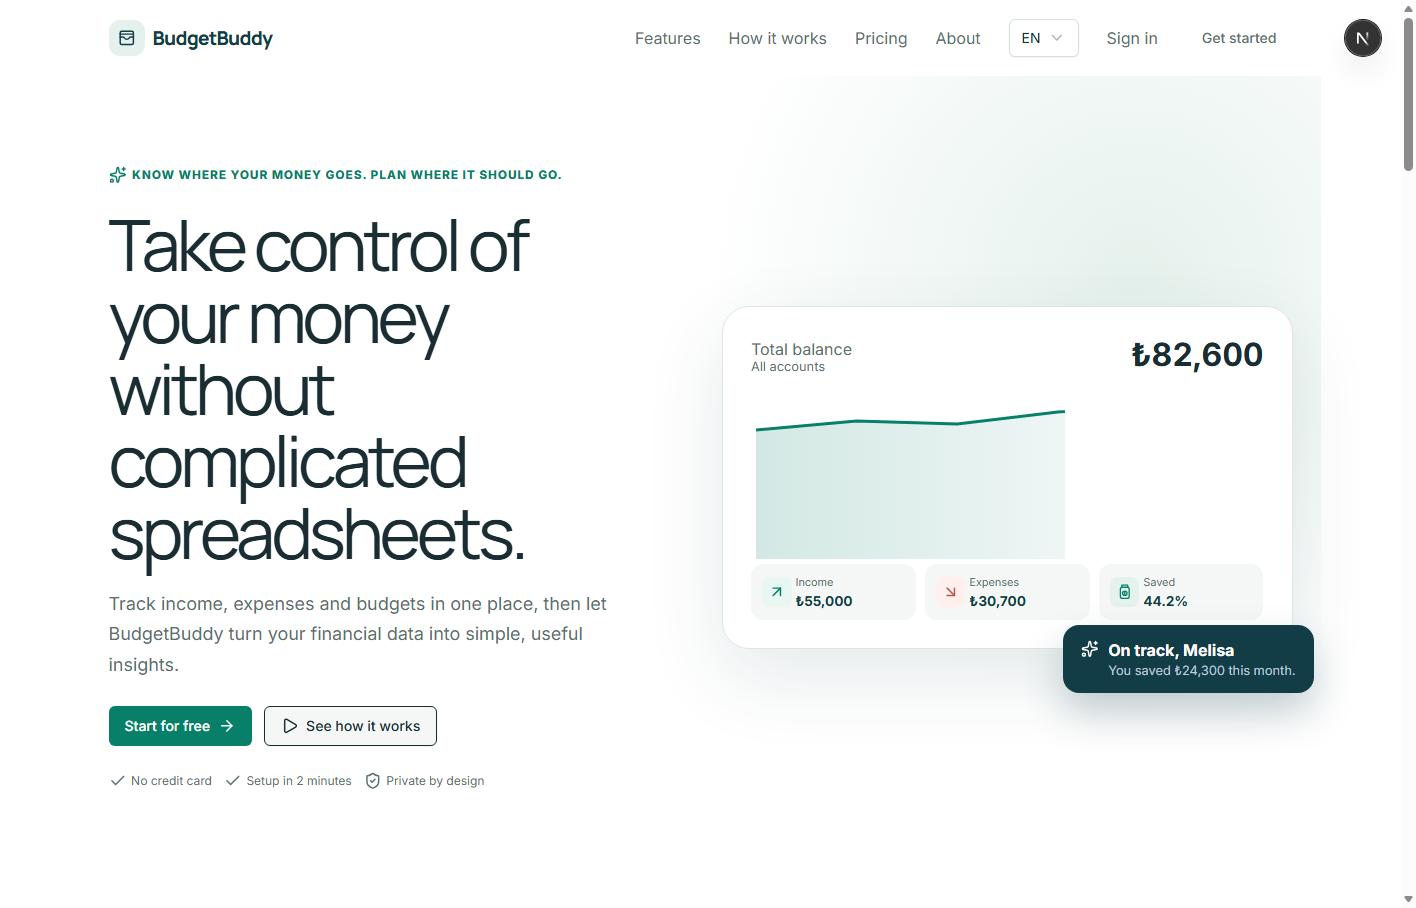
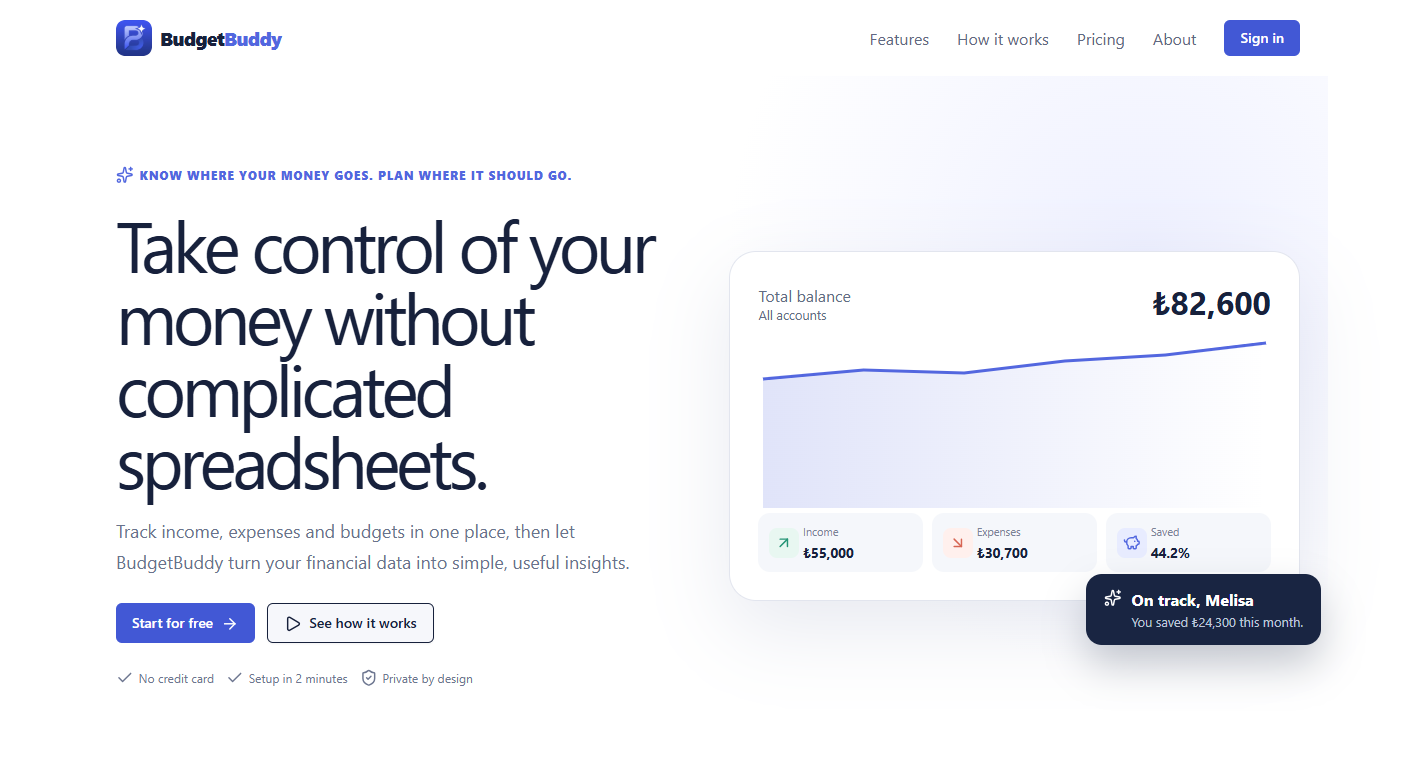
Tighten project copy, drop Junior from the hero and refresh Budget Buddy image
Remove process details and defensive disclaimers from the project
pages in Turkish, English and German (branch protection and CI notes,
"not claimed" caveats, internal source notes), drop "Junior" from the
rotating hero title, and replace the Budget Buddy screenshot with the
current landing page design.

diff --git a/src/app/data/i18n.ts b/src/app/data/i18n.ts
@@ -14,7 +14,7 @@ export const translations = {
     nav: ["Hakkımda", "Uzmanlık", "Projeler", "Deneyim", "İletişim"],
     workTogether: "Birlikte çalışalım", themeLight: "Açık", themeDark: "Koyu", menu: "Menüyü aç veya kapat",
     eyebrow: "Merhaba, ben Melisa", headline: "Web uygulamaları ve Shopify deneyimleri geliştiriyorum.",
-    heroEyebrows: ["JUNIOR FULL-STACK DEVELOPER", "BACKEND ÇÖZÜMLERİ GELİŞTİRİYORUM", "SHOPIFY & MODERN WEB"],
+    heroEyebrows: ["FULL-STACK DEVELOPER", "BACKEND ÇÖZÜMLERİ GELİŞTİRİYORUM", "SHOPIFY & MODERN WEB"],
     summary: "React, FastAPI ve PostgreSQL ile arayüzden veritabanına uzanan projeler üzerinde çalışıyorum.",
     projectsCta: "Projelerimi incele", resume: "CV'yi indir", location: "Muğla, Türkiye",
     section: {
@@ -42,7 +42,7 @@ export const translations = {
     nav: ["About", "Expertise", "Projects", "Experience", "Contact"],
     workTogether: "Let's work together", themeLight: "Light", themeDark: "Dark", menu: "Open or close menu",
     eyebrow: "Hi, I'm Melisa", headline: "I build web applications and Shopify experiences.",
-    heroEyebrows: ["JUNIOR FULL-STACK DEVELOPER", "BUILDING BACKEND SOLUTIONS", "SHOPIFY & MODERN WEB"],
+    heroEyebrows: ["FULL-STACK DEVELOPER", "BUILDING BACKEND SOLUTIONS", "SHOPIFY & MODERN WEB"],
     summary: "I work across interfaces, APIs, and databases with React, FastAPI, and PostgreSQL.",
     projectsCta: "Explore my projects", resume: "Download résumé", location: "Muğla, Turkey",
     section: { about: ["About", "A software developer who stays curious, keeps learning, and builds."], skills: ["Expertise", "A strong technical foundation for full-stack development."], projects: ["Projects", "My latest work"], experience: ["Experience & Education", "My production-focused development journey"], contact: ["Contact", "Let's bring new ideas to life together."] },
@@ -66,7 +66,7 @@ export const translations = {
     nav: ["Über mich", "Expertise", "Projekte", "Erfahrung", "Kontakt"],
     workTogether: "Zusammenarbeiten", themeLight: "Hell", themeDark: "Dunkel", menu: "Menü öffnen oder schließen",
     eyebrow: "Hallo, ich bin Melisa", headline: "Ich entwickle Webanwendungen und Shopify-Erlebnisse.",
-    heroEyebrows: ["JUNIOR FULL-STACK DEVELOPER", "BACKEND-LÖSUNGEN ENTWICKELN", "SHOPIFY & MODERNES WEB"],
+    heroEyebrows: ["FULL-STACK DEVELOPER", "BACKEND-LÖSUNGEN ENTWICKELN", "SHOPIFY & MODERNES WEB"],
     summary: "Mit React, FastAPI und PostgreSQL arbeite ich an Oberflächen, APIs und Datenbanken.",
     projectsCta: "Projekte ansehen", resume: "Lebenslauf herunterladen", location: "Muğla, Türkei",
     section: { about: ["Über mich", "Eine Softwareentwicklerin, die neugierig bleibt, lernt und gestaltet."], skills: ["Expertise", "Eine starke technische Basis für die Full-Stack-Entwicklung."], projects: ["Projekte", "Meine aktuellen Arbeiten"], experience: ["Erfahrung & Ausbildung", "Mein praxisorientierter Entwicklungsweg"], contact: ["Kontakt", "Lass uns neue Ideen gemeinsam verwirklichen."] },

diff --git a/src/app/data/projectHighlights.ts b/src/app/data/projectHighlights.ts
@@ -45,6 +45,6 @@ export const projectHighlights: Record<string, ProjectHighlight[]> = {
     { value: { tr: '1.676', en: '1,676', de: '1.676' }, label: { tr: 'Kaynaklı gömülü ürün kaydı (758 gıda, 918 kozmetik)', en: 'Sourced bundled product records (758 food, 918 cosmetics)', de: 'Mitgelieferte Produkteinträge mit Quelle (758 Lebensmittel, 918 Kosmetik)' } },
     { value: '34', label: { tr: 'Sürümlü içerik kuralı grubu', en: 'Versioned ingredient rule groups', de: 'Versionierte Regelgruppen für Inhaltsstoffe' } },
     { value: '14', label: { tr: 'Ayrı raporlanan yasal alerjen', en: 'Regulated allergens reported separately', de: 'Getrennt ausgewiesene regulierte Allergene' } },
-    { value: '41', label: { tr: 'Dart test dosyası', en: 'Dart test files', de: 'Dart-Testdateien' } },
+    { value: '4', label: { tr: 'Sırayla sorgulanan Open Facts servisi', en: 'Open Facts services queried in sequence', de: 'Nacheinander abgefragte Open-Facts-Dienste' } },
   ],
 };

diff --git a/tests/portfolio.spec.ts b/tests/portfolio.spec.ts
@@ -199,7 +199,7 @@ test('mobile menu traps focus, closes on Escape and focuses the destination', as
 test('reduced motion shows a full static phrase without a cursor', async ({ page }) => {
   await page.emulateMedia({ reducedMotion: 'reduce' });
   await page.goto('/en/');
-  await expect(page.locator('.hero__eyebrow span')).toHaveText('JUNIOR FULL-STACK DEVELOPER');
+  await expect(page.locator('.hero__eyebrow span')).toHaveText('FULL-STACK DEVELOPER');
   await expect(page.locator('.hero__eyebrow')).not.toHaveAttribute('aria-label');
   await expect(page.locator('.hero__eyebrow i')).toHaveCount(0);
   const before = await page.locator('.hero__eyebrow').textContent();
